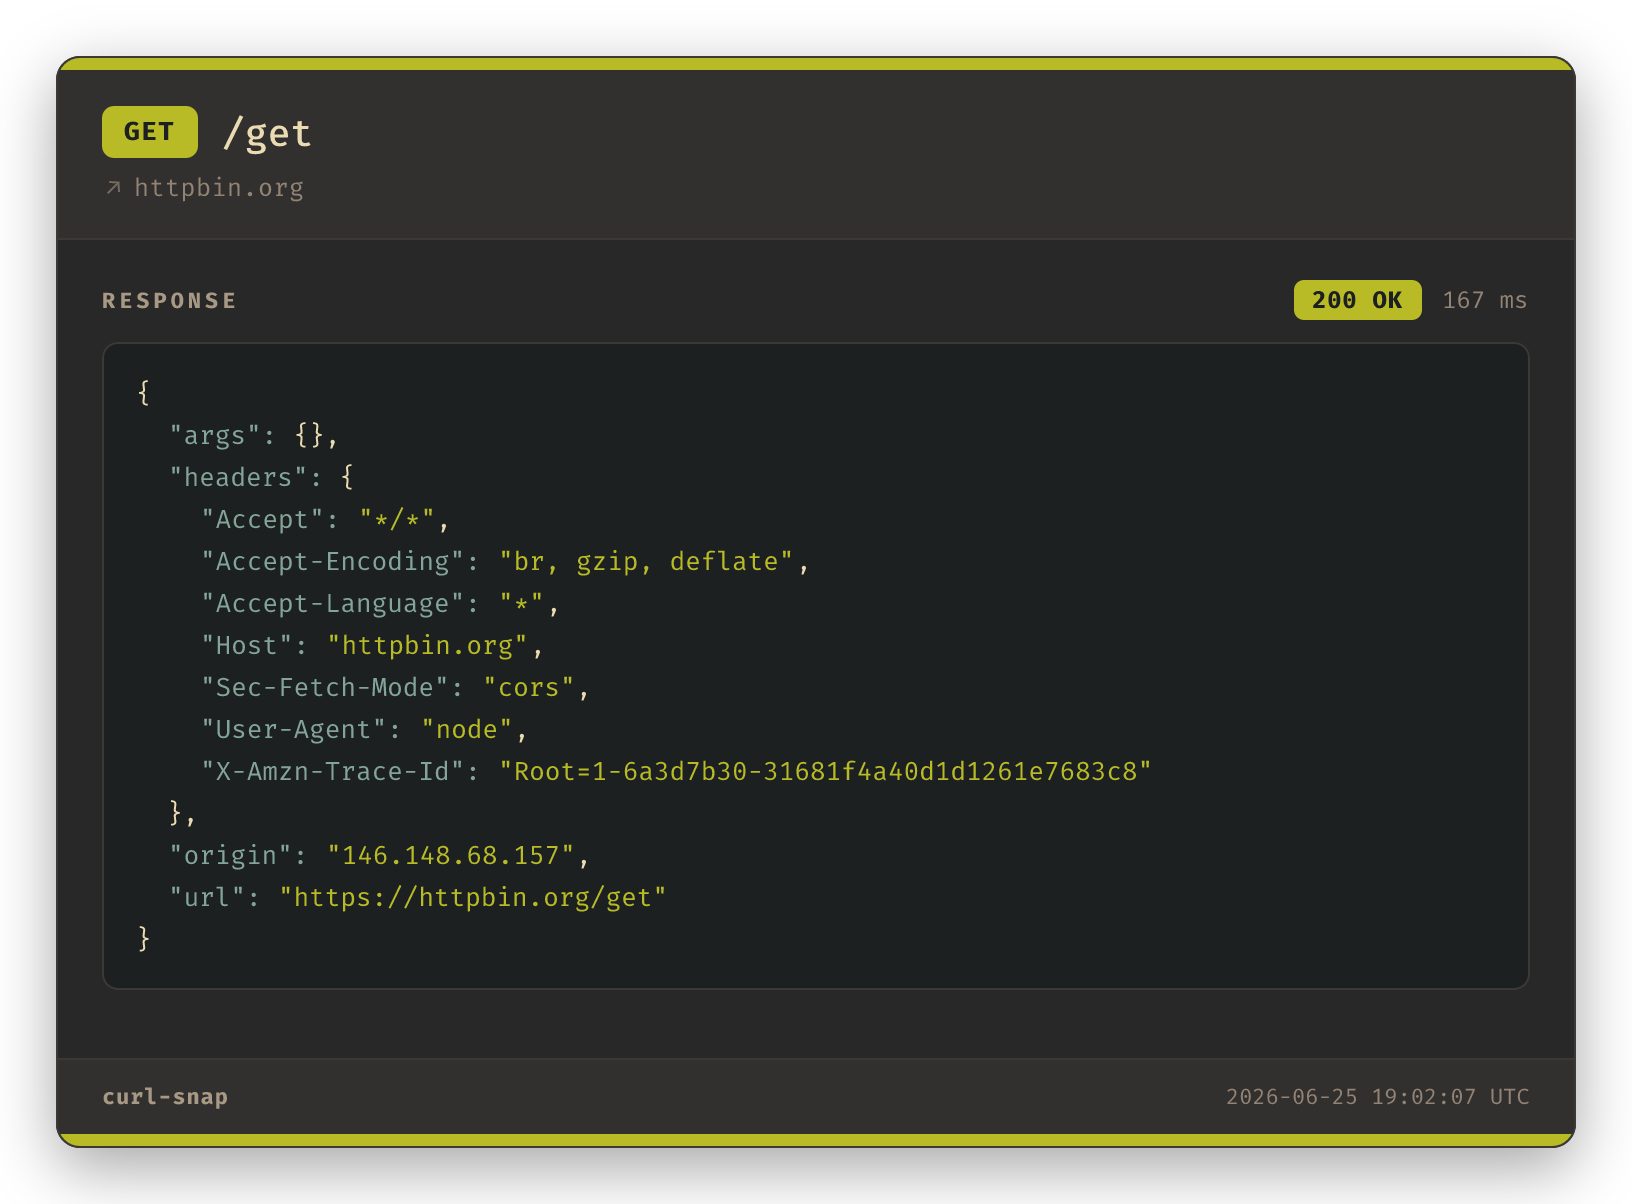
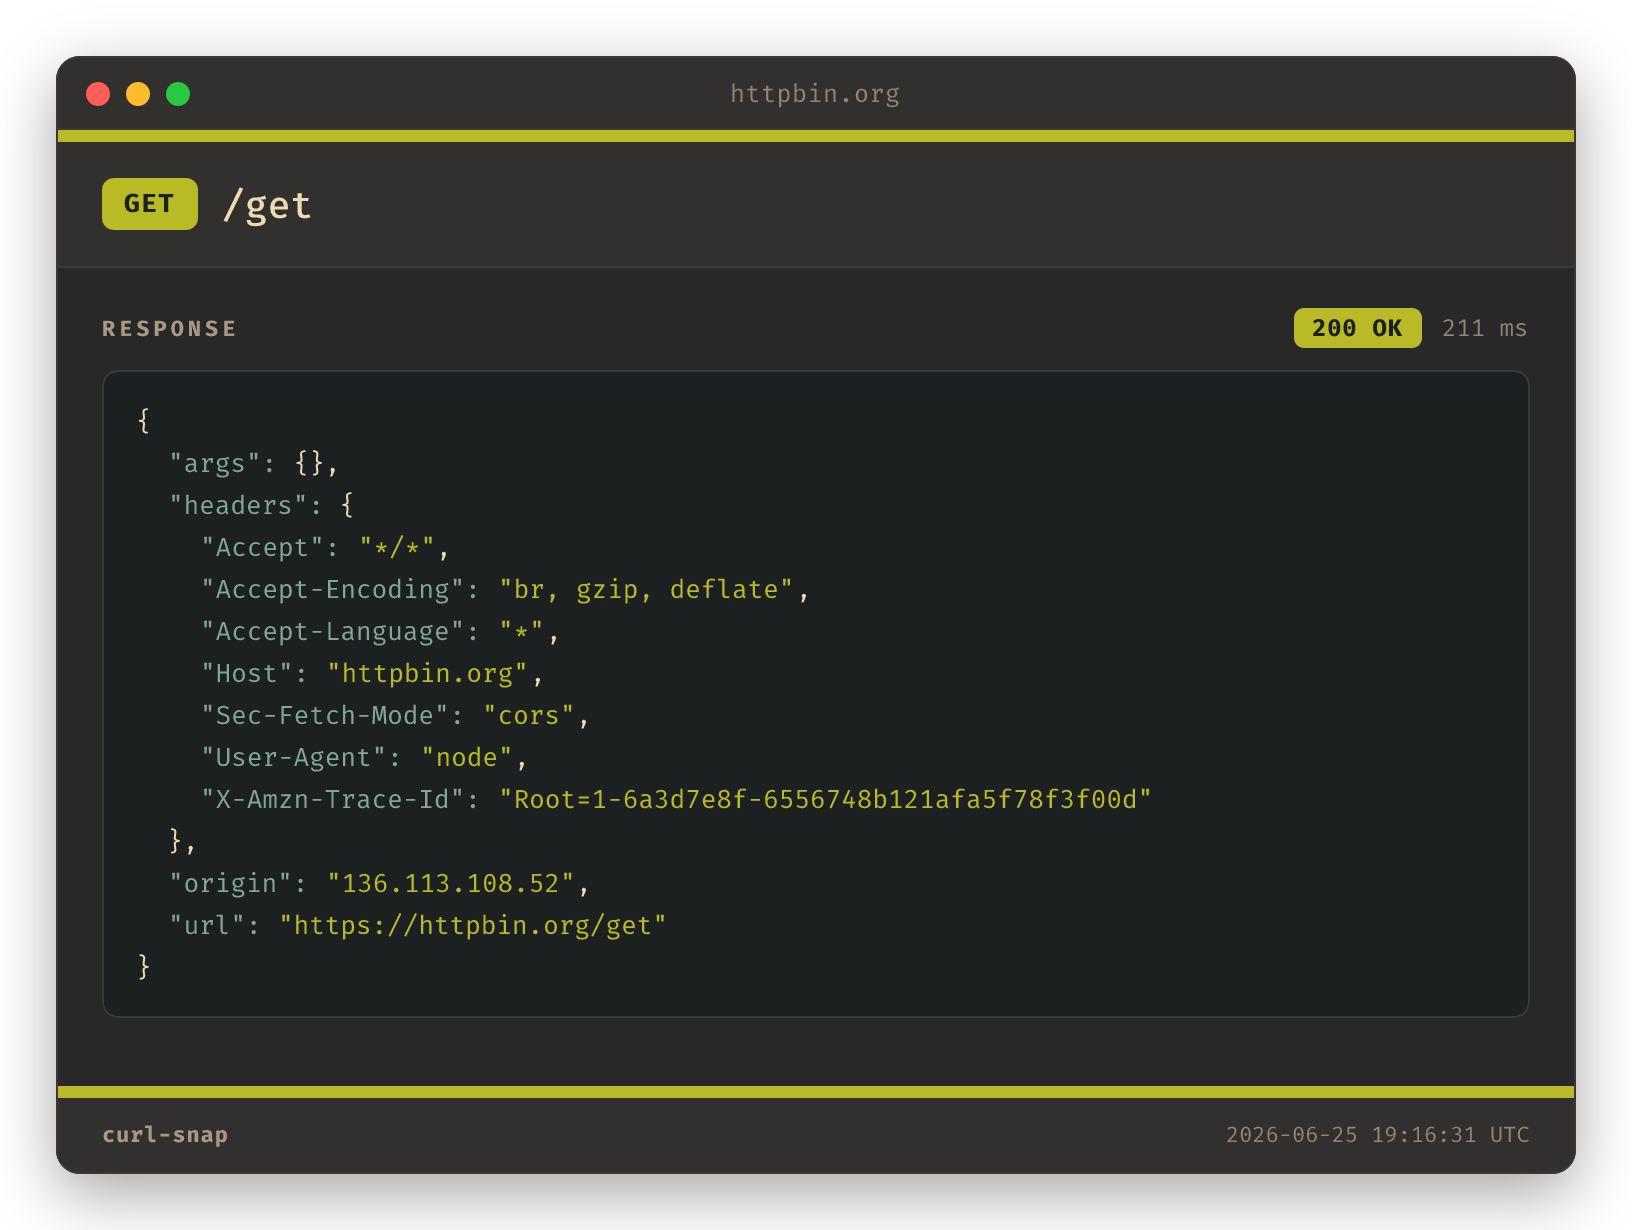
Window chrome on by default; move status bar above the footer
- The macOS-style title bar is now the default (--no-window to remove it). With
  it on and no --title, the domain shows only in the title bar.
- The response status color bar now sits above the curl-snap footer, so both
  color bars are framed inside the card and the footer is the clean bottom edge
  (dropped the footer's now-redundant top border).
- Regenerate all samples + the theme gallery to reflect the new default; update
  README/CHANGELOG.

Claude-Session: https://claude.ai/code/session_01VXh9tr1UUjUUoY5xpw5Vmh

diff --git a/src/template.js b/src/template.js
@@ -453,6 +453,9 @@ export function buildTree(model) {
       ),
       // Body (sections).
       h('div', { display: 'flex', flexDirection: 'column', padding: '4px 22px 18px' }, sectionNodes),
+      // Bottom strip (status tone color) — sits above the footer so both color
+      // bars are framed inside the window, with the footer as the bottom chrome.
+      h('div', { display: 'flex', height: 6, width: '100%', backgroundColor: rColor }, []),
       // Footer.
       h(
         'div',
@@ -461,7 +464,6 @@ export function buildTree(model) {
           alignItems: 'center',
           justifyContent: 'space-between',
           padding: '12px 22px',
-          borderTop: `1px solid ${theme.border}`,
           fontSize: 11,
           color: theme.textMuted,
           backgroundColor: theme.panel,
@@ -471,8 +473,6 @@ export function buildTree(model) {
           h('div', { display: 'flex' }, model.timestamp || ''),
         ]
       ),
-      // Bottom strip (status tone color).
-      h('div', { display: 'flex', height: 6, width: '100%', backgroundColor: rColor }, []),
     ]
   );
 

diff --git a/src/config.js b/src/config.js
@@ -136,7 +136,7 @@ export function resolveOptions(cliOpts, config) {
     themes: config.themes || undefined, // user-defined named themes
     background: bg.value,
     padding: pad.value,
-    window: pick('window', false),
+    window: pick('window', true),
     title: pick('title', undefined),
     format: fmt.value,
     formatExplicit: cliOpts.format !== undefined || config.format !== undefined,
@@ -188,7 +188,7 @@ export function exampleConfig() {
     themes: {}, // e.g. { mine: { background: '#101010', green: '#00ff88', … } }
     background: 'none', // none | a CSS color | a CSS gradient | auto
     padding: 28,
-    window: false,
+    window: true,
     title: null, // window-bar title (defaults to the request domain)
     format: 'png', // png | svg
     outDir: null,

diff --git a/bin/curl-snap.js b/bin/curl-snap.js
@@ -48,7 +48,7 @@ Options:
       --padding <px>   space around the card (default 28)
       --background <v> card backdrop: none (default) | a CSS color |
                        a CSS gradient | auto (theme-derived)
-      --window / --no-window    add a macOS-style title bar (default off)
+      --window / --no-window    macOS-style title bar (default on)
       --title <str>    window-bar title (default: the request domain)
       --theme <name>   color theme (default gruvbox) · see --list-themes
       --list-themes    list the bundled themes and exit

diff --git a/README.md b/README.md
@@ -84,7 +84,7 @@ status/timing summary in the terminal — no file is written. Pass `--out` (or
 | `--width <px>` | Card width (default 760) |
 | `--padding <px>` | Space around the card (default 28) |
 | `--background <v>` | Backdrop: `none` (default), a CSS color, a CSS gradient, or `auto` |
-| `--window` / `--no-window` | Add a macOS-style title bar (default off) |
+| `--window` / `--no-window` | macOS-style title bar (default on) |
 | `--title <str>` | Window-bar title (default: the request domain) |
 | `--theme <name>` | Color theme (default `gruvbox`) · see `--list-themes` |
 | `--list-themes` | List the bundled themes and exit |
@@ -158,11 +158,11 @@ than failing.
 
 ## Backdrops & window chrome
 
-For a more share-ready image — tweets, blog posts, slides — drop the card onto a
-backdrop and add a window frame:
+Cards come with a macOS-style title bar by default. For a more share-ready image
+— tweets, blog posts, slides — drop the card onto a backdrop too:
 
 ```sh
-curl-snap '<curl>' --background "linear-gradient(135deg,#1e3a8a,#7c3aed)" --window
+curl-snap '<curl>' --background "linear-gradient(135deg,#1e3a8a,#7c3aed)"
 ```
 
 ![A curl-snap card with a gradient backdrop and window chrome](samples/showcase-window.png)
@@ -171,8 +171,8 @@ curl-snap '<curl>' --background "linear-gradient(135deg,#1e3a8a,#7c3aed)" --wind
   (`linear-gradient(...)`), or `auto` (a subtle backdrop derived from the active
   theme). Default is `none` (transparent).
 - `--padding <px>` sets the margin around the card (default 28).
-- `--window` adds a macOS-style title bar; `--title` overrides the default
-  (the request domain).
+- The window title bar is on by default; `--no-window` removes it, and `--title`
+  overrides the default title (the request domain).
 
 ## SVG output
 

diff --git a/CHANGELOG.md b/CHANGELOG.md
@@ -6,6 +6,11 @@ to [Semantic Versioning](https://semver.org/spec/v2.0.0.html).
 
 ## [Unreleased]
 
+### Changed
+- The window title bar is now **on by default** — pass `--no-window` to remove it.
+- The response status color bar now sits **above the footer**, so both color
+  bars are framed inside the card (the footer is the bottom edge).
+
 ## [2.1.0] - 2026-06-25
 
 ### Added
